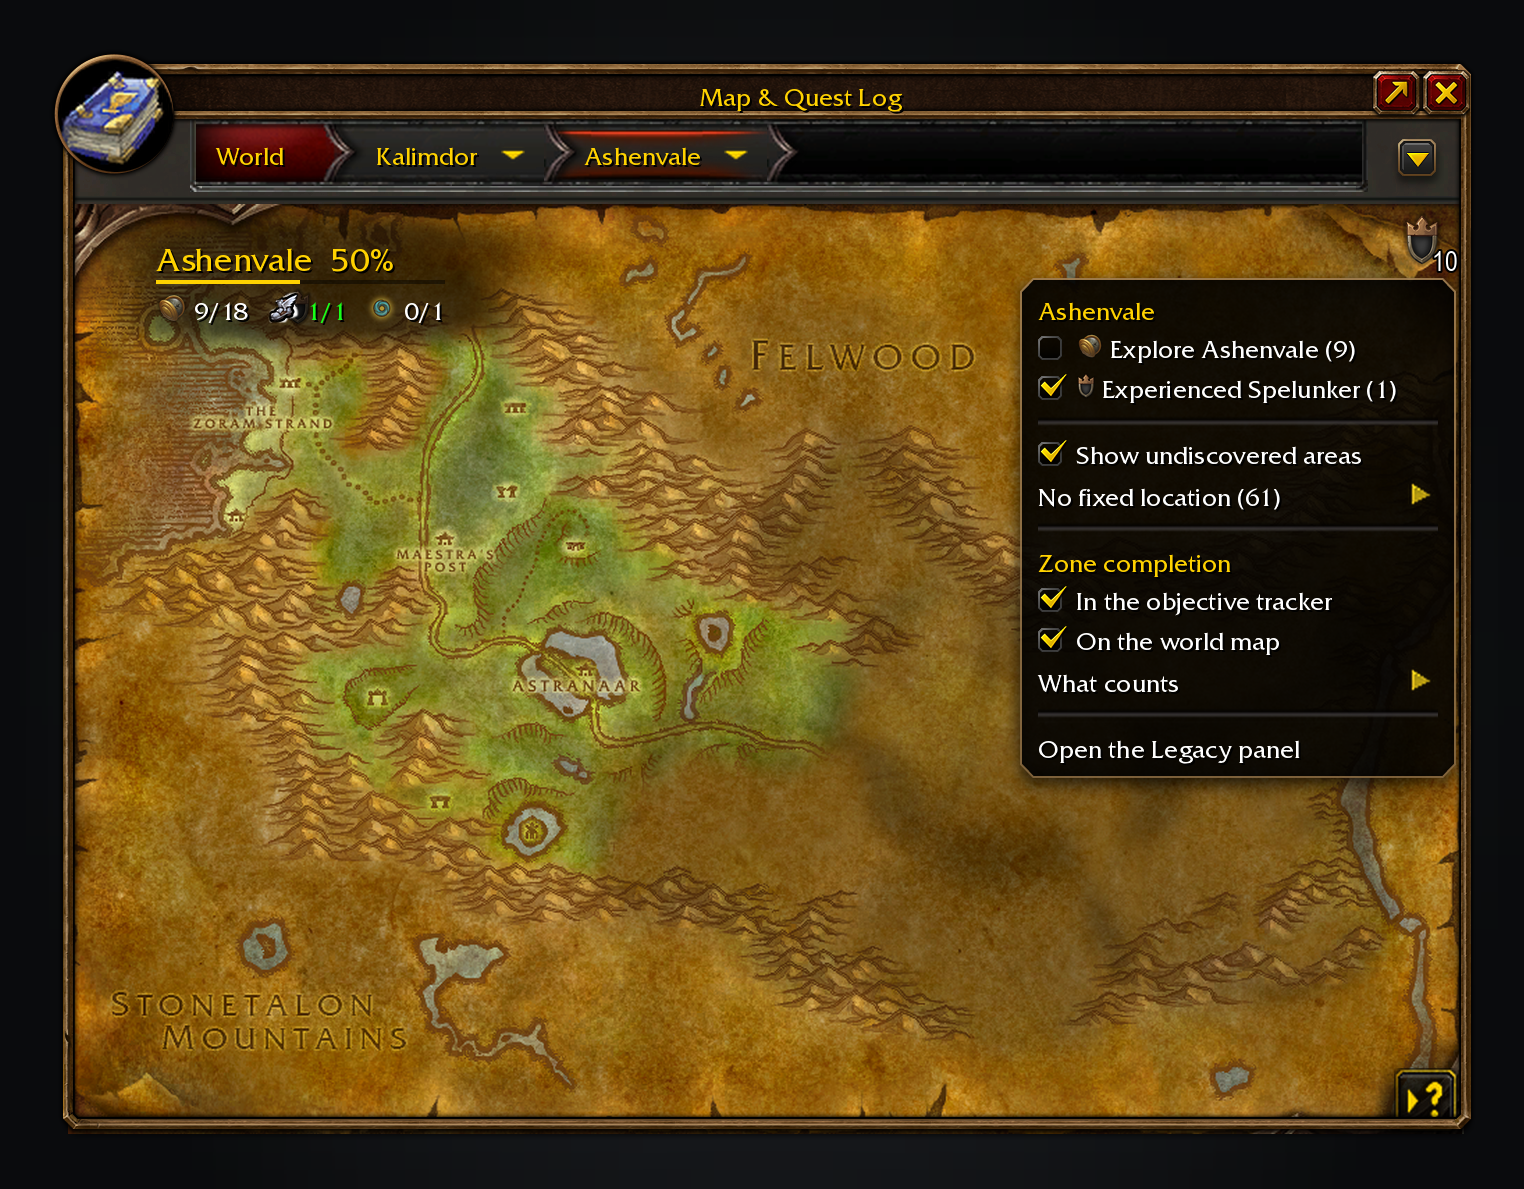
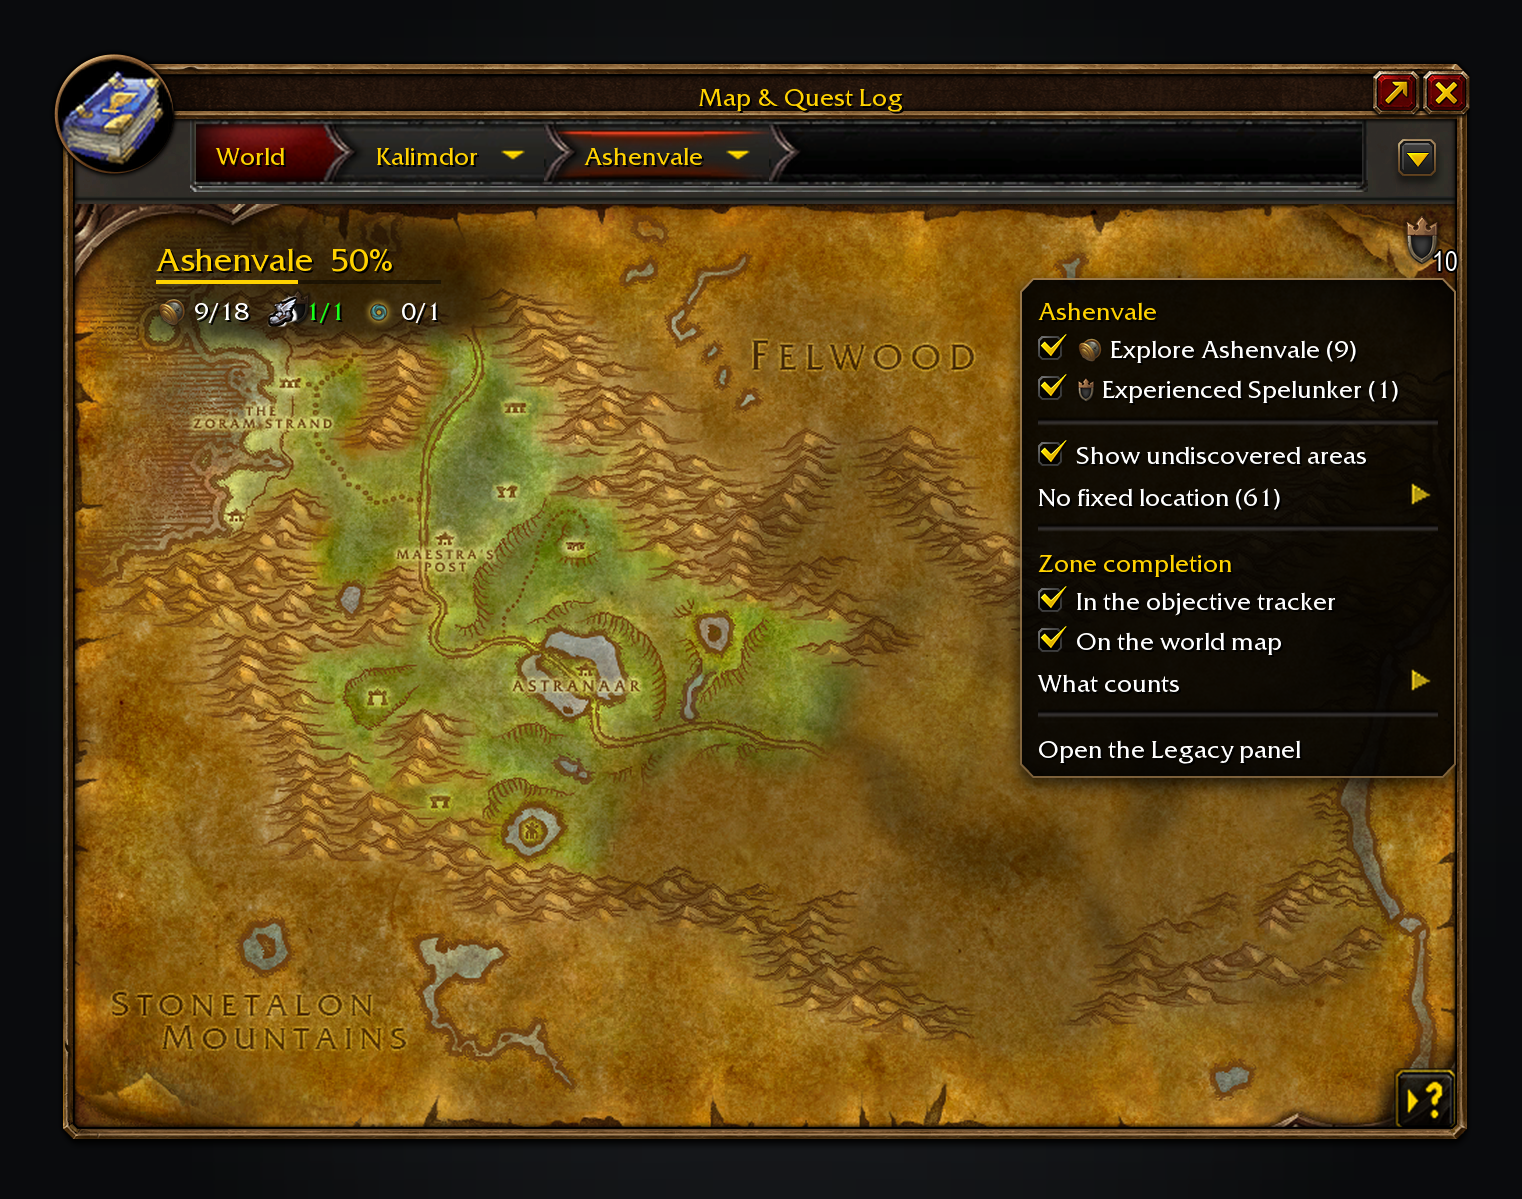
fix(tracker): track a zone's share of a challenge, not the whole challenge
Ticking "Explore Felwood (12)" in Felwood's map menu stored Explorer, the
challenge it feeds, so the tracker showed Explorer's own coarse step ("0/2
Explorer") and nothing about Felwood. The menu passed group.challenge as
the tracking key, so every zone entry collapsed to its whole challenge.

The menu now stores what the entry is (Model.ZoneKey). A feeding
achievement is stored as itself ("853"), since it is the zone objective
wherever it is ticked; Durotar and Orgrimmar share Explore Durotar. A
challenge's own objectives in a zone (its dungeons there) are stored as
"<challenge>:<uiMapID>". Model.TrackedBlocks groups entries under their
visible challenge, shown as Blizzard's block style: the challenge as the
header and one "- " line per tracked zone ("0/12 Explore Felwood", or
"Blackfathom Deeps"). A block is dropped once nothing under it is left.

Saved entries need no migration. Earlier versions only ever stored
challenge IDs, which stay numbers and still mean the whole challenge with
every unfinished step; "No fixed location" still stores them that way.
When a whole challenge and its zones are both tracked, the zone lines come
first and a step they already show is not repeated. "Stop tracking" on a
block removes everything under that challenge.

tests/model_spec.lua covers the keys, grouping, dedupe and saved whole
entries. The tracker and menu screenshots now show a zone-tracked Explorer
and dungeon (map.png and menu.png also pick up wowmock's current frame).
[…]

Changed region(s): [[0.0309, 0.0311, 0.9882, 0.9647]]

diff --git a/tools/screenshots.py b/tools/screenshots.py
@@ -120,8 +120,9 @@ KNOWN_TAXIS = {28}
 COMPLETED_ACHIEVEMENTS = {684}
 # The client shows this character one of Forever's two variant sets (Achievement.Flags).
 VARIANT_FLAG = 0x08000000
-# In the order they were ticked: the dungeon from the map menu, then the class levels.
-TRACKED = [62032, 62000, 61999, 61997, 61994]
+# In the order they were ticked: Ashenvale's exploration and its dungeon from the map menu (Model.ZoneKey),
+# then class levels from "No fixed location" (whole challenges).
+TRACKED = ["845", "62032:1440", 62000, 61999, 61994]
 EARN_ACHIEVEMENT = 8
 
 
@@ -247,7 +248,12 @@ def zone_objectives(data, live, ui_map_id):
         if progress and not progress.completed:
             group = by_achievement.get(entry["achievement"])
             if not group:
-                group = {"achievement": entry["achievement"], "challenge": challenge, "objectives": []}
+                group = {
+                    "achievement": entry["achievement"],
+                    "challenge": challenge,
+                    "ui_map": ui_map_id,
+                    "objectives": [],
+                }
                 by_achievement[entry["achievement"]] = group
                 groups.append(group)
             group["objectives"].append({"entry": entry, "text": progress.text})
@@ -275,17 +281,64 @@ def unlocated(data, live):
     return [item for item in result if item["open"] > 0]
 
 
+def step_line(criteria_id, progress, live):
+    sub = progress.type == EARN_ACHIEVEMENT and live.criteria(progress.asset)
+    if sub:
+        detail, seen = f"{sum(step.completed for step in sub.values())}/{len(sub)}", f"a{progress.asset}"
+    else:
+        counted = progress.required and progress.required > 1
+        detail, seen = (f"{progress.quantity}/{progress.required}" if counted else None), f"c{criteria_id}"
+    return (f"{detail} {progress.text}" if detail else progress.text), seen
+
+
 def tracker_lines(live, challenge):
-    lines = []
-    for progress in sorted((p for p in live.criteria(challenge).values() if not p.completed), key=lambda p: p.index):
-        detail = None
-        sub = progress.type == EARN_ACHIEVEMENT and live.criteria(progress.asset)
-        if sub:
-            detail = f"{sum(step.completed for step in sub.values())}/{len(sub)}"
-        elif progress.required and progress.required > 1:
-            detail = f"{progress.quantity}/{progress.required}"
-        lines.append(f"{detail} {progress.text}" if detail else progress.text)
-    return lines
+    steps = sorted(
+        ((cid, p) for cid, p in live.criteria(challenge).items() if not p.completed), key=lambda s: s[1].index
+    )
+    return [step_line(cid, progress, live) for cid, progress in steps]
+
+
+def zone_key(group):
+    if group["achievement"] != group["challenge"]:
+        return str(group["achievement"])
+    return f"{group['challenge']}:{group['ui_map']}"
+
+
+def zone_lines(data, live, key):
+    achievement, _, ui_map = key.partition(":")
+    steps = live.criteria(int(achievement))
+    if not ui_map:
+        done = sum(step.completed for step in steps.values())
+        return [] if done == len(steps) else [(f"{done}/{len(steps)} {live.name(int(achievement))}", f"a{achievement}")]
+    return [
+        step_line(entry["criteria"], steps[entry["criteria"]], live)
+        for entry in data["zones"][int(ui_map)]
+        if entry["achievement"] == int(achievement) and not steps[entry["criteria"]].completed
+    ]
+
+
+def tracked_blocks(data, live):
+    """Model.TrackedBlocks: (challenge, lines) per visible challenge, zone shares first."""
+    visible, blocks = live.visible(), {}
+    for key in TRACKED:
+        whole = isinstance(key, int)
+        challenge = (
+            (key if key in visible else None) if whole else owning_challenge(data, int(key.split(":")[0]), visible)
+        )
+        if challenge:
+            block = blocks.setdefault(challenge, {"whole": False, "lines": []})
+            if whole:
+                block["whole"] = True
+            else:
+                block["lines"] += zone_lines(data, live, key)
+    result = []
+    for challenge, block in blocks.items():
+        seen = {s for _, s in block["lines"]}
+        if block["whole"]:
+            block["lines"] += [line for line in tracker_lines(live, challenge) if line[1] not in seen]
+        if block["whole"] or block["lines"]:
+            result.append((challenge, [text for text, _ in block["lines"]]))
+    return result
 
 
 CATEGORIES = ("areas", "taxis", "dungeons", "raids", "legacy", "reputations")
@@ -396,7 +449,7 @@ def main_menu(live, data, hover=None):
         explore = group["objectives"][0]["entry"]["kind"] == "explore"
         mark = icon("areas", 14) if explore else atlas_markup(POINTS_ICON, 10, 14)
         text = challenge_text(f"{mark} {live.name(group['achievement'])}", len(group["objectives"]))
-        entries.append(MenuCheckbox(text, group["challenge"] in TRACKED))
+        entries.append(MenuCheckbox(text, zone_key(group) in TRACKED))
     open_total = len(unlocated(data, live))
     entries += [
         MenuDivider(),
@@ -598,13 +651,10 @@ def render_continent(ui, data, live):
 def render_tracker(ui, data, live):
     zone = data["completion"][ASHENVALE]
     result = zone_completion(live, zone)
-    visible = live.visible()
     legacy = []
-    for challenge in TRACKED:
-        if challenge in visible:
-            lines = tracker_lines(live, challenge)
-            shown = lines[:5] + ([("...", False)] if len(lines) > 5 else [])
-            legacy.append(TrackerBlock(live.name(challenge), shown))
+    for challenge, lines in tracked_blocks(data, live):
+        shown = lines[:5] + ([("...", False)] if len(lines) > 5 else [])
+        legacy.append(TrackerBlock(live.name(challenge), shown))
     modules = [
         TrackerModule("Ashenvale", [TrackerBlock(counts_text(ui, result, 14))]),
         TrackerModule("Legacy", legacy),

diff --git a/README.md b/README.md
@@ -15,7 +15,7 @@ Legacy points are account-wide and come from challenges spread over the whole wo
 ## Features
 
 - **Map button** in the world map's top-right button column, with a count of the unfinished objectives on the map you're viewing. Its menu lists them by challenge, with a tick box to track each one. Challenges with no fixed place are grouped the way the Legacy panel groups them. Undiscovered areas are shaded on the zone map; the same menu turns the shading off.
-- **Tracker**: a Legacy section at the top of the objective tracker lists the challenges you track, each unfinished step with its live progress (12/20, or areas done in an exploration step). Click a challenge to open it in the Legacy panel; right-click for a menu that can stop tracking it. Forever doesn't allow Blizzard's own tracking of these, so this replaces it.
+- **Tracker**: a Legacy section at the top of the objective tracker lists what you track, with live progress. Tick a zone's objective in the map menu and it tracks just that zone: the challenge as a header with a line under it, such as "0/12 Explore Felwood", one line for each zone you tick. Challenges ticked under "No fixed location" list every unfinished step (12/20, or areas done in an exploration step). Click a challenge to open it in the Legacy panel; right-click for a menu that can stop tracking it. Forever doesn't allow Blizzard's own tracking of these, so this replaces it.
 - **Map pins** on dungeon entrances, with the challenge each counts toward and its Legacy points.
 - **Undiscovered areas** are shaded darker in their real shape on the zone map, so you can see where to go at a glance. Hovering one names it and, when a Legacy challenge counts it, shows the challenge, its points and how many of the zone's areas are left.
 - **Zone completion**: how much of a zone you've done, Guild Wars 2 style. Areas explored, flight paths learned and local reputations at Friendly count for the character; dungeons, raids and the zone's other Legacy objectives count your Legacy progress on the account. A zone reaching 100% gets a toast and a sound, and continent maps show how many of the continent's zones are complete. It shows in the world map's corner, for the zone you're viewing, and in each zone badge's tooltip on continent maps. It can also show in the objective tracker, for the zone you're in (the zone name, a percentage and one row of counts), once you tick that in the map menu. Each can be collapsed, and hovering lists what's left. "What counts" in the same menu leaves out any category you don't care about, and the percentage follows.

diff --git a/docs/curseforge.md b/docs/curseforge.md
@@ -11,7 +11,7 @@ Legacy Here puts your unfinished WoW: Forever Legacy challenges on the world map
 ## Features
 
 - **Map button** in the world map's button column, with a count of the unfinished objectives on the map you're viewing. Its menu lists them by challenge, with a tick box to track each one.
-- **Tracker**: a Legacy section at the top of the objective tracker shows each tracked challenge's unfinished steps with live progress. Click one to open it in the Legacy panel.
+- **Tracker**: a Legacy section at the top of the objective tracker shows what you track with live progress. A zone ticked in the map menu tracks just that zone, such as "0/12 Explore Felwood" under Explorer. Click one to open it in the Legacy panel.
 - **Map pins** on dungeon entrances, with the challenge each counts toward and its Legacy points.
 - **Undiscovered areas** are shaded in their real shape on the zone map. Hover one to see which challenge counts it and how many of the zone's areas are left.
 - **Zone completion**, Guild Wars 2 style: areas explored, flight paths, local reputations, dungeons, raids and the zone's other Legacy objectives, as a percentage in the map's corner and, if you choose, in the tracker. A zone reaching 100% gets a toast and a sound.

diff --git a/CHANGELOG.md b/CHANGELOG.md
@@ -11,6 +11,7 @@ verbatim rather than rewritten as the addon moves.
 
 ## [Unreleased]
 
+- **Ticking a zone's objective in the map menu tracks just that zone**, not the whole challenge. Ticking "Explore Felwood" adds Explorer to the tracker with one line under it, "0/12 Explore Felwood", counting up as you discover its areas; tick more zones and each gets its own line under the same challenge. A dungeon ticked from its zone's map shows that dungeon under its Spelunker challenge in the same way. Unticking a zone removes its line, and the challenge goes once nothing under it is tracked. Challenges ticked under "No fixed location", and anything you tracked before this version, still show every unfinished step.
 - **Zone badges on continent maps carry their count on the icon's corner**, like a stack count on a bag slot, in the game's small number font, instead of floating beside the icon.
 
 ## [0.3.0] - 2026-09-23
